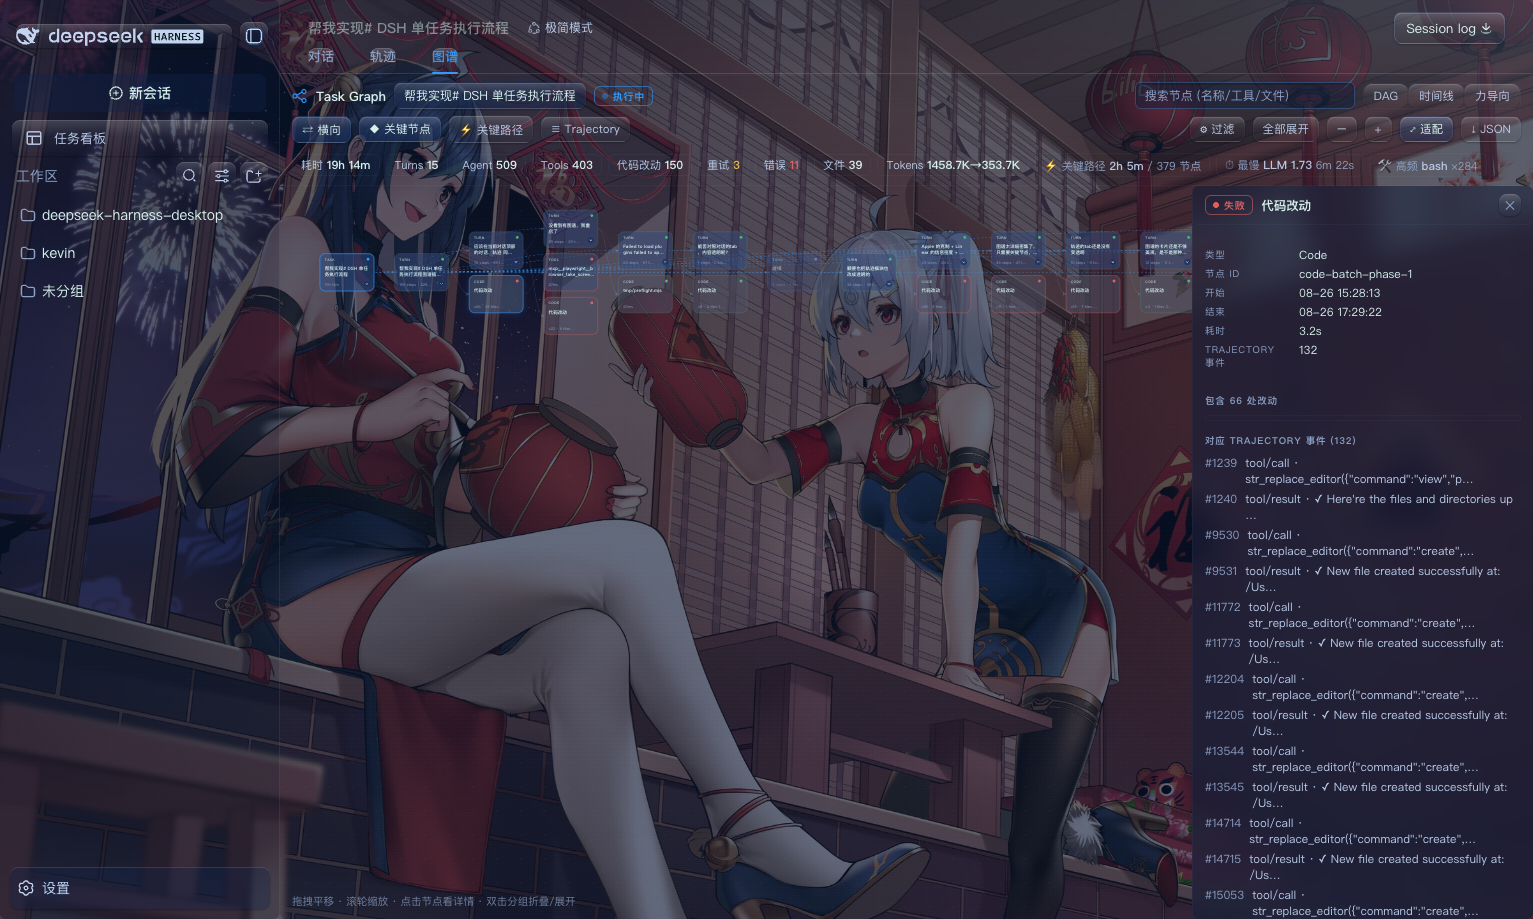
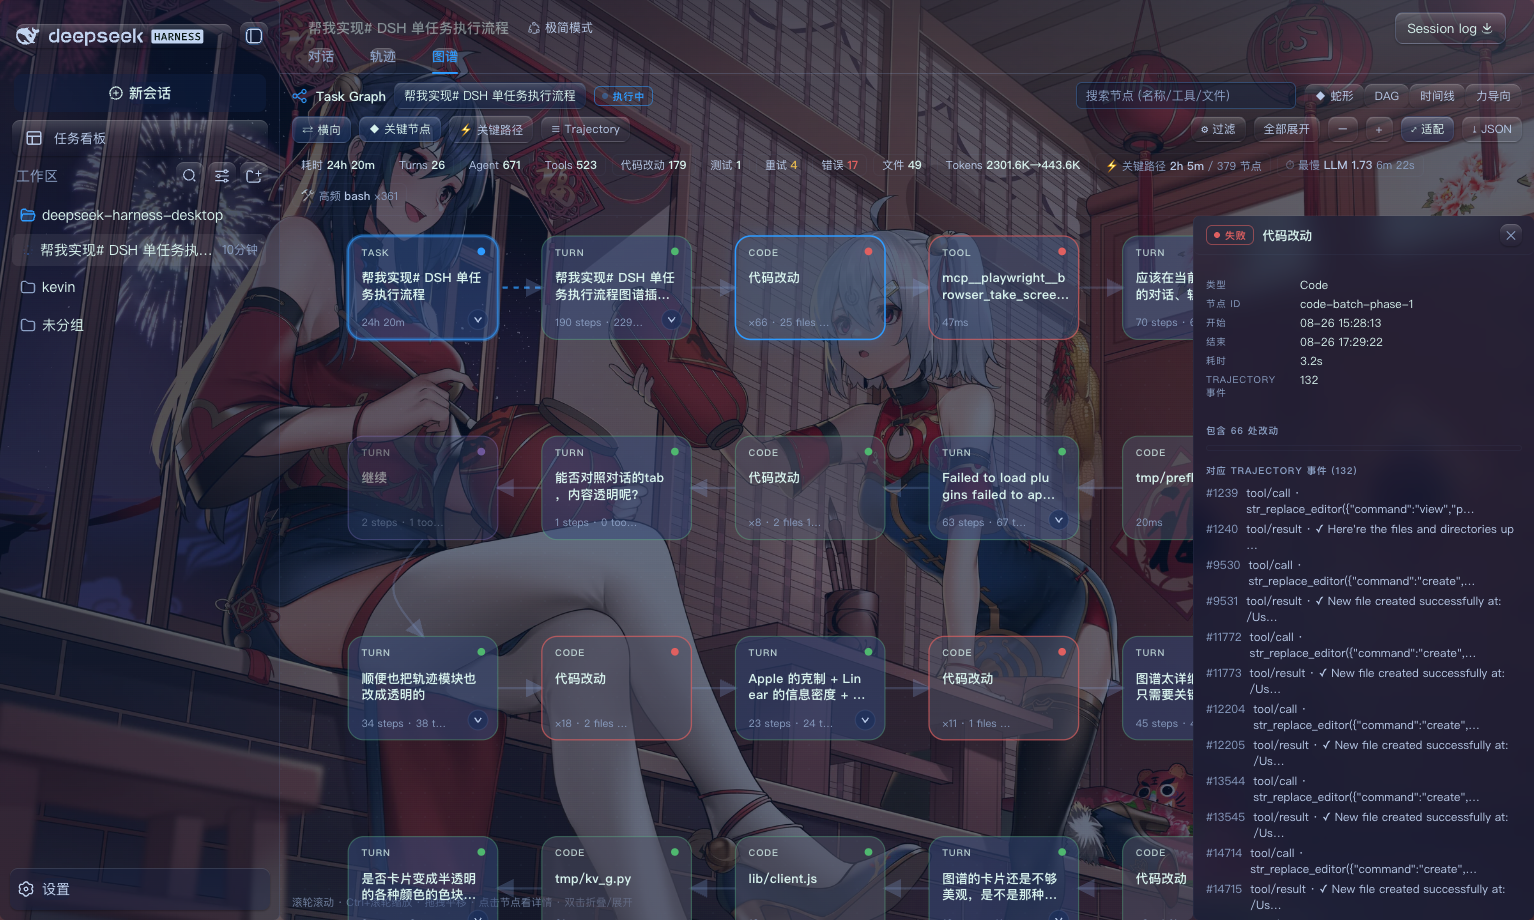
docs: refresh README (snake layout, bounded zoom + vertical scrolling) and retake all screenshots

diff --git a/README_EN.md b/README_EN.md
@@ -4,7 +4,7 @@
 
 > An interactive **execution-flow graph for a single task** in [DeepSeek Harness (DSH)](https://github.com/deepseek-ai/dsh): see the whole run at a glance — `task start → Agent / Skill / Tool → subtasks → code changes → tests → success / failure / retries` — with live execution status and historical replay.
 
-![Overview: horizontal DAG · type-tinted cards · key nodes](docs/images/hero.png)
+![Overview: snake layout · type-tinted cards · key nodes](docs/images/hero.png)
 
 - **Task First** — the first-class concept is the Task (one session), not a Session/Message/Event firehose.
 - **Graph First** — open a task and see the execution graph, not a wall of logs.
@@ -49,10 +49,11 @@ Click any key node and the right-hand panel shows **what actually happened**:
 
 ### Layouts & interaction
 
-- **Horizontal DAG (default)** — the conversation pane is landscape, so the graph flows left→right with turns as columns; one-click toggle between ⇄ horizontal / ⇅ vertical
+- **Snake (default)** — up to 6 key nodes per row, left→right, wrap down, right→left (boustrophedon); ordered by the task→turn→key-event execution narrative, so you read the whole run like a document
+- **DAG** — layered directed graph; one-click toggle between ⇄ horizontal / ⇅ vertical
 - **Timeline** — events placed at their real timestamps; parallels and costs at a glance
 - **Force** — free exploration of complex relations
-- Zoom / pan / fit, hierarchical collapse & expand, type filters, search, focus node, neighborhood highlight
+- **Wheel scrolls vertically** through long graphs; `Ctrl/⌘ + wheel` zooms at the cursor (bounded 0.3×–2.2× so it never shrinks unreadably); drag to pan, ⤢ fit-to-width, collapse/expand, type filters, search, focus node, neighborhood highlight
 
 ![Timeline layout](docs/images/timeline.png)
 
@@ -194,7 +195,7 @@ docs/       data-model.md · trajectory-events.md · spec.md · images/
 
 - [x] MVP: single-task graph, Task→Agent→Tool→Result, DAG, statuses, detail panel, Graph↔Trajectory, zoom/collapse, retries, live updates
 - [x] Phase 2: Skill/SubAgent, parallelism, loops, critical path, timeline, tokens/summary, search/filter
-- [x] Experience polish: key-node view, type-tinted cards, horizontal layout, glass theme, live timers/flow edges
+- [x] Experience polish: key-node view, type-tinted cards, snake layout, bounded zoom + vertical scrolling, glass theme, live timers/flow edges
 - [ ] Phase 3: business-knowledge nodes, code semantic graph (Producer/Transformer/Consumer, call chains), candidate-code → Patch → Test loop
 
 ## License

diff --git a/README.md b/README.md
@@ -4,7 +4,7 @@
 
 > 给 [DeepSeek Harness (DSH)](https://github.com/deepseek-ai/dsh) 的**单个任务**画一张可交互的执行流程图谱：从 `任务开始 → Agent / Skill / Tool → 子任务 → 代码改动 → 测试 → 成功 / 失败 / 重试` 一眼看清，支持实时执行状态与历史回溯。
 
-![图谱总览（横向 DAG · 类型色块 · 关键节点）](docs/images/hero.png)
+![图谱总览（蛇形布局 · 类型色块 · 关键节点）](docs/images/hero.png)
 
 - **Task First**：第一层概念是 Task（一次会话），不是 Session / Message / Event 流水。
 - **Graph First**：进入任务先看到执行图谱，而不是一长串日志。
@@ -49,10 +49,11 @@
 
 ### 布局与交互
 
-- **横向 DAG（默认）**：会话区是横向画幅，图谱从左到右流动、轮次成列；一键切换「⇄ 横向 / ⇅ 纵向」
+- **蛇形（默认）**：一行最多 6 个关键节点，左→右一行、连线向下折返、右→左再折返（牛耕式）；按"任务→轮次→关键事件"的执行顺序排布，像读文档一样顺着看完整条执行链
+- **DAG**：分层有向图，一键切换「⇄ 横向 / ⇅ 纵向」
 - **时间线**：按真实执行时刻铺开，直观看到并行与耗时
 - **力导向**：自由探索复杂关系
-- 缩放 / 平移 / 适配、按层级折叠展开、按类型过滤、搜索、聚焦节点、邻域高亮
+- **滚轮纵向滚动**浏览长图，`Ctrl/⌘ + 滚轮`在光标处缩放（限幅 0.3×–2.2×，不会缩成看不清的小图）；拖拽平移、⤢ 适配宽度、折叠/展开、类型过滤、搜索、聚焦节点、邻域高亮
 
 ![时间线布局](docs/images/timeline.png)
 
@@ -193,7 +194,7 @@ docs/       data-model.md · trajectory-events.md · spec.md · images/
 
 - [x] MVP：单任务图谱、Task→Agent→Tool→Result、DAG、状态、详情、Graph↔Trajectory、缩放/折叠、重试、实时
 - [x] 第二阶段：Skill/SubAgent、并行、循环、关键路径、时间线、Token/摘要、搜索/过滤
-- [x] 体验打磨：关键节点视图、类型色块卡片、横向布局、玻璃透明主题、实时计时/流动边
+- [x] 体验打磨：关键节点视图、类型色块卡片、蛇形布局、纵向滚动/缩放限幅、玻璃透明主题、实时计时/流动边
 - [ ] 第三阶段：业务知识节点、代码语义图（Producer/Transformer/Consumer、调用链）、候选代码→Patch→Test 闭环
 
 ## License
